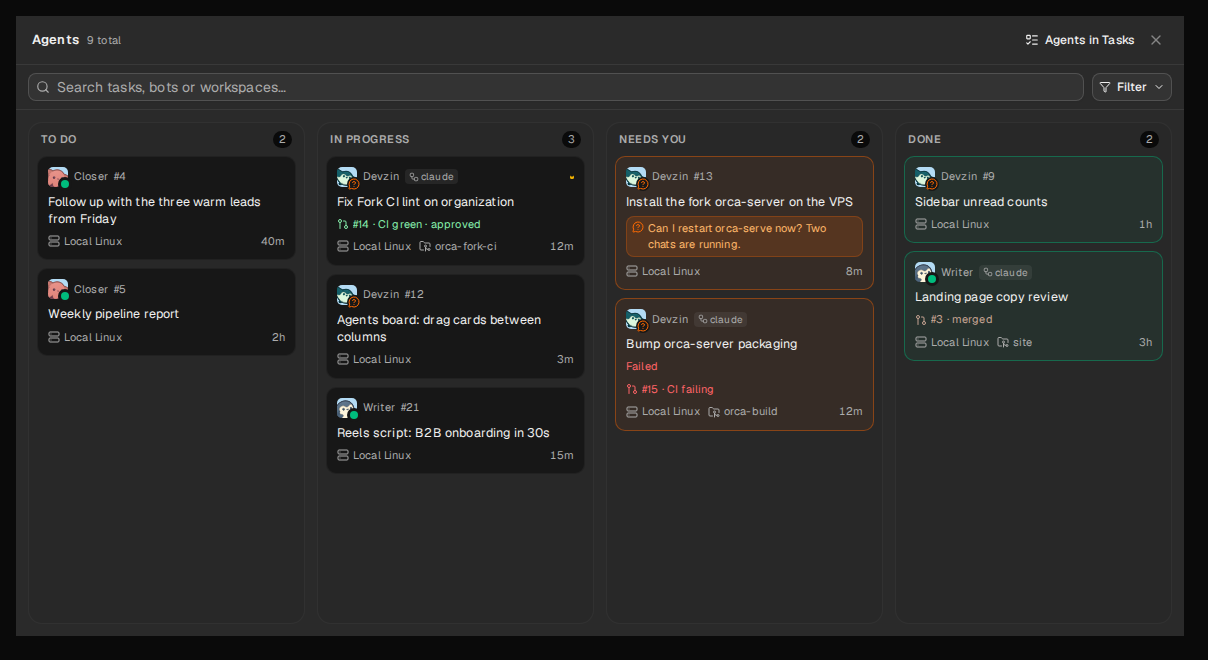
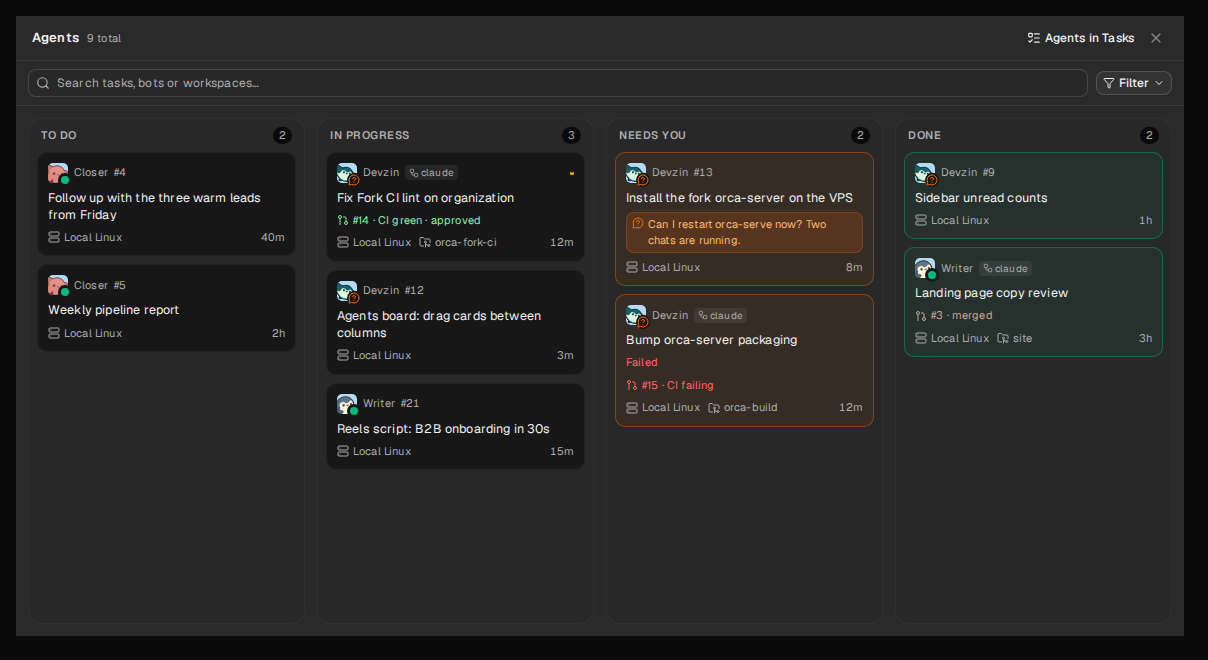
fix(fork): Agents board passes the changed-code gate; document it in the plan

diff --git a/src/renderer/src/components/orca-fork/agents-board/AgentsBoardToolbar.tsx b/src/renderer/src/components/orca-fork/agents-board/AgentsBoardToolbar.tsx
@@ -11,11 +11,9 @@ import {
   DropdownMenuSeparator,
   DropdownMenuTrigger
 } from '@/components/ui/dropdown-menu'
-import { Input } from '@/components/ui/input'
 import { FilterOptionCount } from '@/components/dashboard/board/FilterOptionCount'
 import { toggleDashboardFilter } from '@/components/dashboard/board/agent-board-filtering'
 import { useTranslate } from '@/i18n/use-translate'
-import { cn } from '@/lib/class-names'
 import {
   activeAgentsBoardFilterCount,
   EMPTY_AGENTS_BOARD_FILTERS,
@@ -68,12 +66,12 @@ export function AgentsBoardToolbar({
       <div className="flex shrink-0 items-center gap-2 border-b border-border px-3 py-2">
         <div className="relative min-w-0 flex-1">
           <Search className="pointer-events-none absolute top-1/2 left-2 size-3.5 -translate-y-1/2 text-muted-foreground" />
-          <Input
+          <input
             value={query}
             onChange={(event) => onQueryChange(event.target.value)}
             placeholder={t('orcaFork.agentsBoard.search', 'Search tasks, bots or workspaces…')}
             aria-label={t('orcaFork.agentsBoard.searchLabel', 'Search the board')}
-            className="h-7 bg-muted/55 pr-7 pl-7 text-xs"
+            className="h-7 w-full rounded-md border border-input bg-muted/55 pr-7 pl-7 text-xs outline-none placeholder:text-muted-foreground focus-visible:ring-2 focus-visible:ring-ring"
           />
           {query ? (
             <Button
@@ -81,7 +79,7 @@ export function AgentsBoardToolbar({
               size="icon-xs"
               onClick={() => onQueryChange('')}
               aria-label={t('dashboardPopout.search.clear', 'Clear search')}
-              className="absolute top-1/2 right-0.5 -translate-y-1/2 text-muted-foreground"
+              className="absolute top-1/2 right-0.5 -translate-y-1/2"
             >
               <X className="size-3" />
             </Button>
@@ -94,11 +92,7 @@ export function AgentsBoardToolbar({
         ) : null}
         <DropdownMenu>
           <DropdownMenuTrigger asChild>
-            <Button
-              variant="outline"
-              size="xs"
-              className={cn('h-7 gap-1.5 px-2 text-xs', activeCount > 0 && 'border-foreground/25')}
-            >
+            <Button variant={activeCount > 0 ? 'outline-strong' : 'outline'} size="xs">
               <Filter className="size-3" />
               {t('dashboardPopout.filters.label', 'Filter')}
               {activeCount > 0 ? (
@@ -109,32 +103,29 @@ export function AgentsBoardToolbar({
               <ChevronDown className="size-3" />
             </Button>
           </DropdownMenuTrigger>
-          <DropdownMenuContent
-            align="end"
-            className="scrollbar-sleek max-h-[70vh] w-64 overflow-y-auto"
-            sideOffset={6}
-          >
-            {sections.map((key) => (
-              <React.Fragment key={key}>
-                <DropdownMenuLabel>{sectionLabel(key)}</DropdownMenuLabel>
-                {options[key].map((option) => (
-                  <DropdownMenuCheckboxItem
-                    key={option.id}
-                    checked={filters[key].includes(option.id)}
-                    onCheckedChange={() => toggle(key, option.id)}
-                    onSelect={(event) => event.preventDefault()}
-                  >
-                    <span className="truncate">{option.label}</span>
-                    <FilterOptionCount count={option.count} />
-                  </DropdownMenuCheckboxItem>
-                ))}
-                <DropdownMenuSeparator />
-              </React.Fragment>
-            ))}
+          <DropdownMenuContent align="end" className="w-64" sideOffset={6}>
+            <div className="scrollbar-sleek max-h-[60vh] overflow-y-auto">
+              {sections.map((key) => (
+                <React.Fragment key={key}>
+                  <DropdownMenuLabel>{sectionLabel(key)}</DropdownMenuLabel>
+                  {options[key].map((option) => (
+                    <DropdownMenuCheckboxItem
+                      key={option.id}
+                      checked={filters[key].includes(option.id)}
+                      onCheckedChange={() => toggle(key, option.id)}
+                      onSelect={(event) => event.preventDefault()}
+                    >
+                      <span className="truncate">{option.label}</span>
+                      <FilterOptionCount count={option.count} />
+                    </DropdownMenuCheckboxItem>
+                  ))}
+                  <DropdownMenuSeparator />
+                </React.Fragment>
+              ))}
+            </div>
             <DropdownMenuItem
               disabled={activeCount === 0}
               onSelect={() => onFiltersChange(EMPTY_AGENTS_BOARD_FILTERS)}
-              className="text-muted-foreground"
             >
               <X className="size-3.5" />
               {t('dashboardPopout.filters.clearAll', 'Clear all filters')}
@@ -171,10 +162,9 @@ export function AgentsBoardToolbar({
             })
           )}
           <Button
-            variant="link"
-            size="xs"
+            variant="link-muted"
+            size="inlineText"
             onClick={() => onFiltersChange(EMPTY_AGENTS_BOARD_FILTERS)}
-            className="h-[22px] px-1 text-[11px] text-muted-foreground"
           >
             {t('dashboardPopout.filters.clear', 'Clear')}
           </Button>

diff --git a/src/renderer/src/components/orca-fork/agents-board/AgentsBoard.tsx b/src/renderer/src/components/orca-fork/agents-board/AgentsBoard.tsx
@@ -247,7 +247,7 @@ export function AgentsBoard({
           </span>
           {viewSwitch}
           <div className="ml-auto flex items-center gap-1">
-            <Button variant="ghost" size="xs" className="h-7 gap-1.5 text-xs" onClick={openInTasks}>
+            <Button variant="ghost" size="xs" onClick={openInTasks}>
               <ListTodo className="size-3.5" />
               {t('orcaFork.agentsBoard.openInTasks', 'Agents in Tasks')}
             </Button>

diff --git a/src/renderer/src/components/orca-fork/agents-board/AgentsBoardColumn.tsx b/src/renderer/src/components/orca-fork/agents-board/AgentsBoardColumn.tsx
@@ -39,7 +39,8 @@ export function AgentsBoardColumnView({
         setOver(true)
       }}
       onDragLeave={(event) => {
-        if (!event.currentTarget.contains(event.relatedTarget as Node | null)) {
+        const next = event.relatedTarget
+        if (!(next instanceof Node) || !event.currentTarget.contains(next)) {
           setOver(false)
         }
       }}

diff --git a/src/renderer/src/components/orca-fork/agents-board/AgentsBoardCard.tsx b/src/renderer/src/components/orca-fork/agents-board/AgentsBoardCard.tsx
@@ -50,7 +50,9 @@ function workerStateWords(t: Translate, card: Card): string | null {
       return t('orcaFork.agentsTasks.worker.stopped', 'Stopped')
     case 'unverifiable':
       return t('orcaFork.agentsTasks.worker.unknown', 'Out of contact')
-    default:
+    case 'working':
+    case 'completed':
+    case null:
       return null
   }
 }

diff --git a/docs/fork/PLAN.md b/docs/fork/PLAN.md
@@ -127,6 +127,16 @@ its home (oldest) workspace. Ids and types live in `src/shared/orca-fork/workspa
 every feature that keeps data per workspace keys it by `ForkWorkspaceId`. The sidebar header shows the
 active workspace with a switcher, and everything below filters to it.
 
+### Agents board (Agent Dashboard promoted)
+
+The experimental Agent Dashboard is on by default (`experimentalAgentDashboardPopout` defaults to
+`FORK_FEATURES.agentsBoard`) and opens on a **Bots** Kanban, with upstream's terminals board behind a
+Bots | Terminals switch. Columns A fazer / Em andamento / Precisa de você / Concluído; one card per bot
+item and per worker no item links, with the bot's photo and presence, PR/CI badge, machine and
+workspace. Dragging an item card (or "Move to…") calls `bots.items.owner.status`. Filters: workspace,
+machine, bot, tag (Phase 2 departments/sections), saved per `ForkWorkspaceId`. Linked both ways with the
+Tasks Agents view. Renderer only; stock `orca-server` works. Code: `src/renderer/src/components/orca-fork/agents-board/`.
+
 ### Phase 5 — Shared agent computer (dropped)
 
 Dropped by the owner (2026-11-21): a desktop per machine costs too much RAM/CPU on the VPS. Nothing
